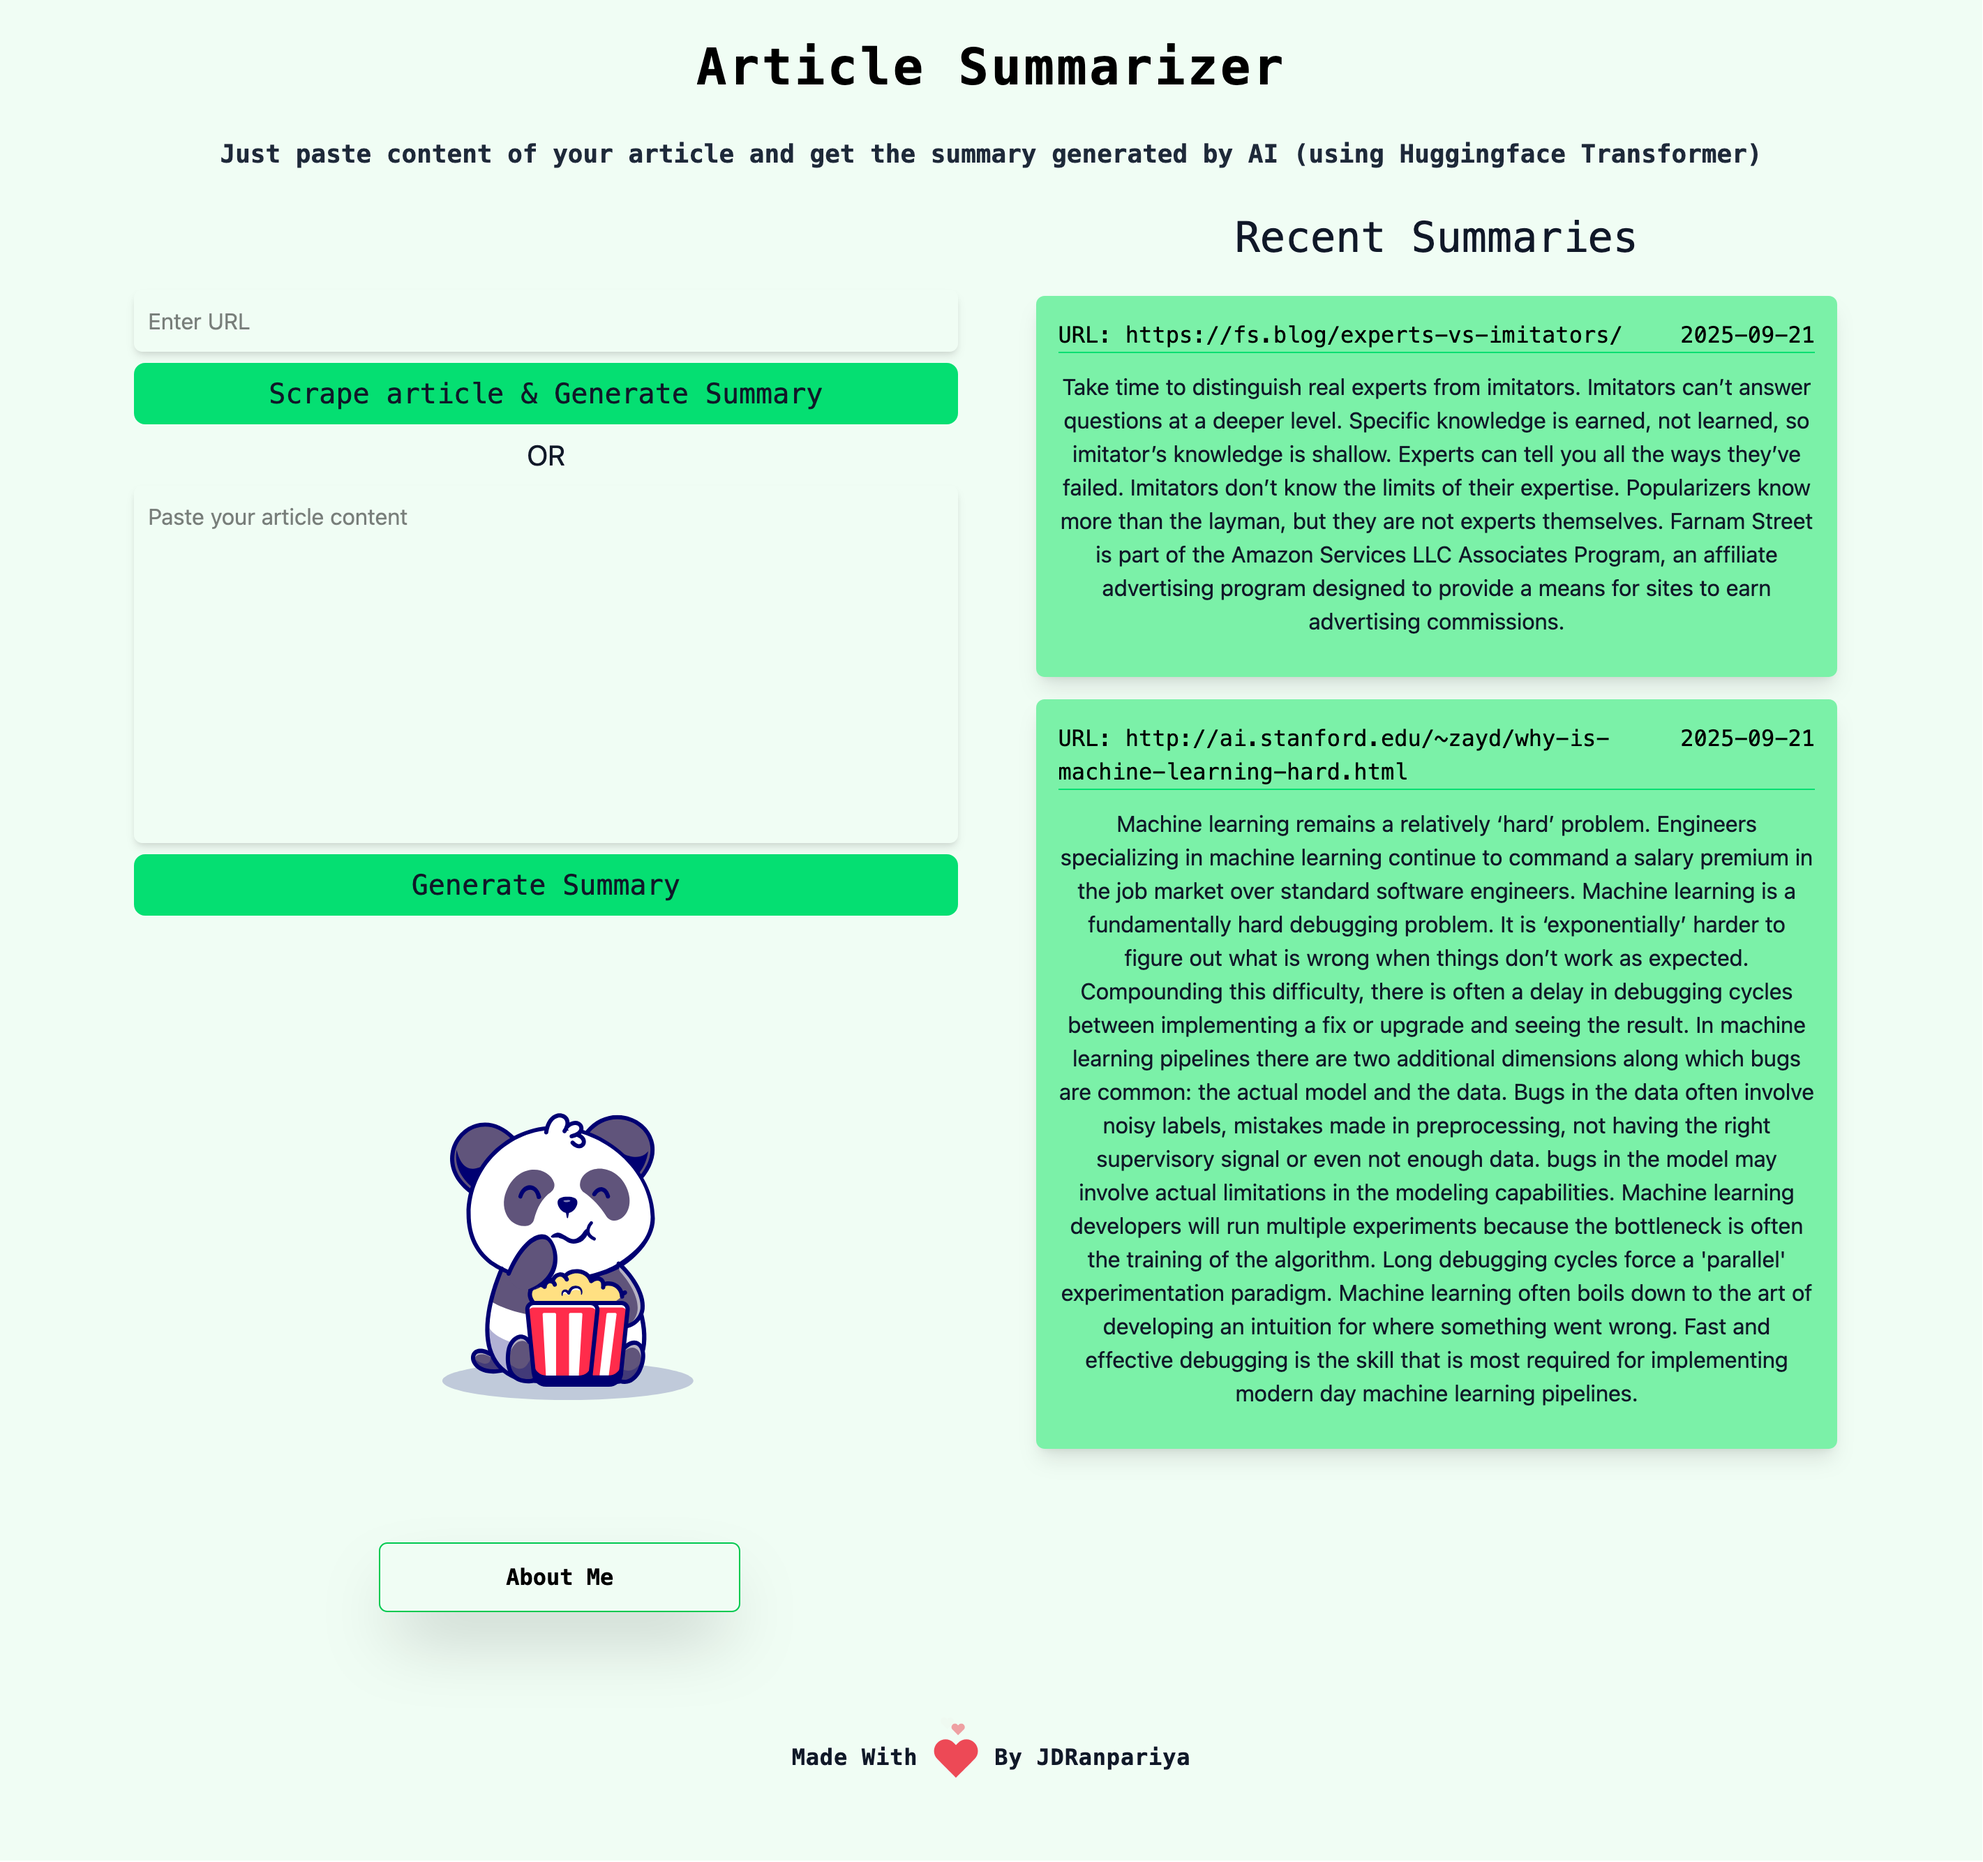
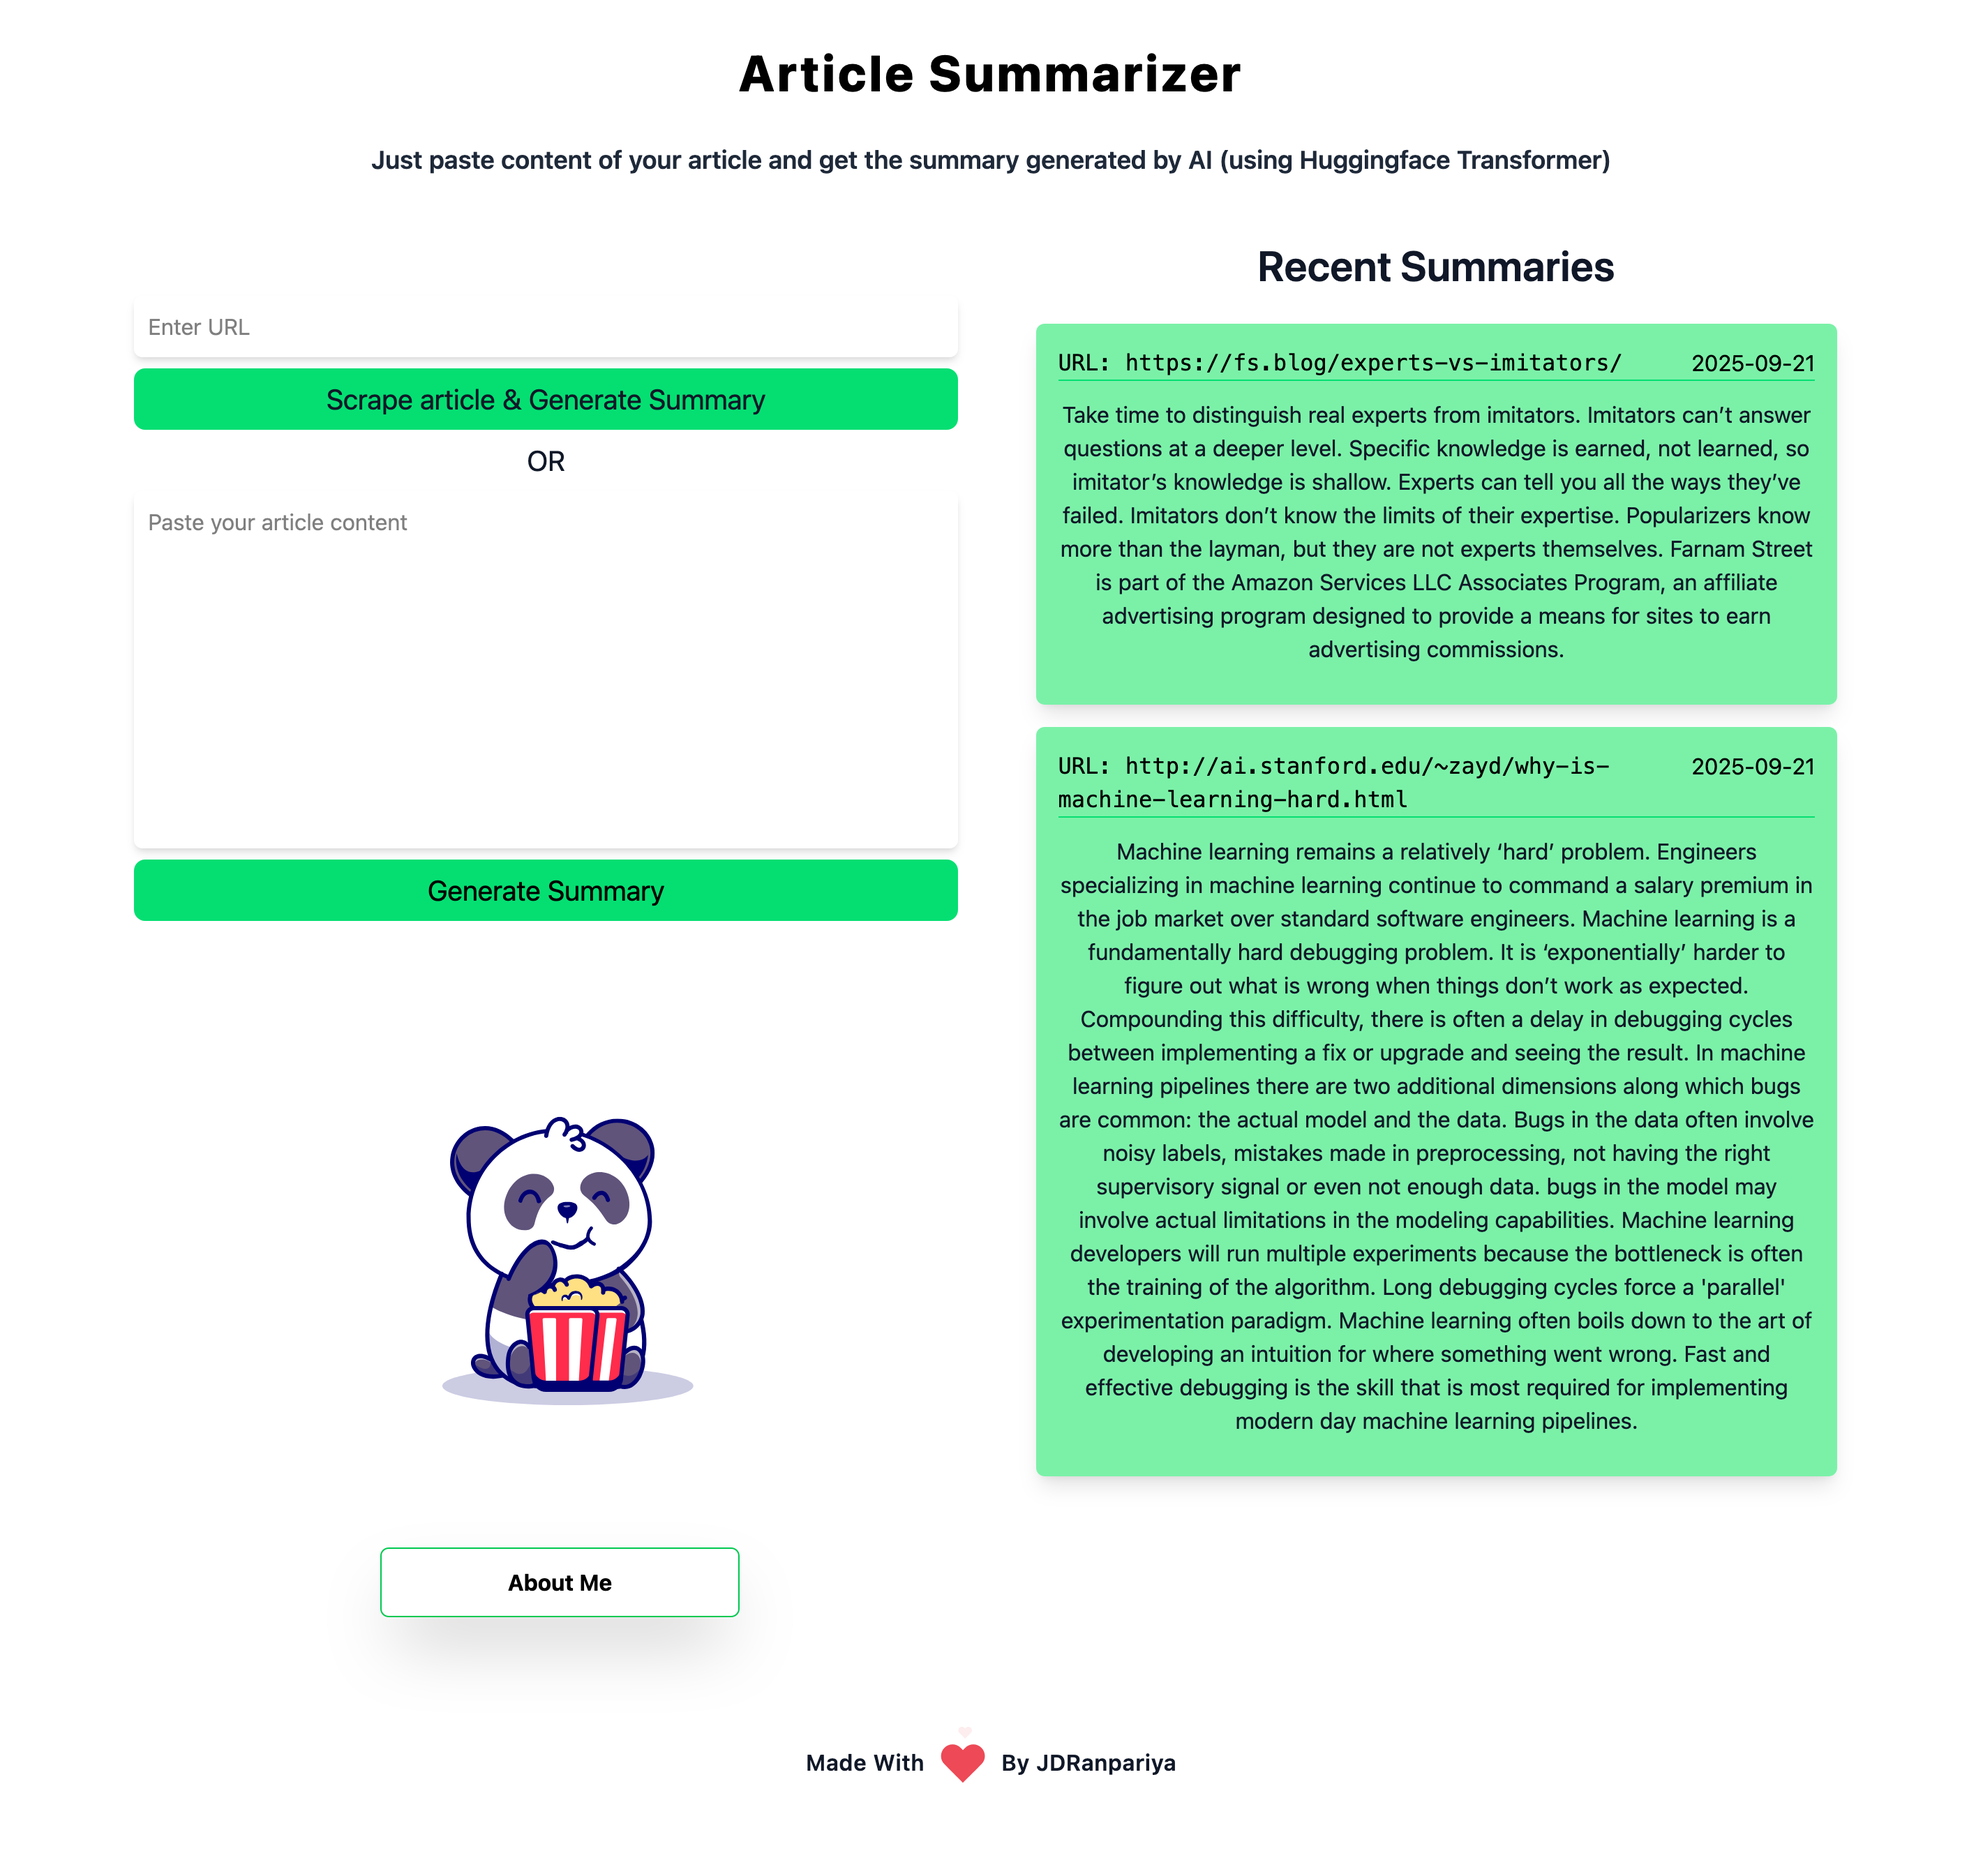
update fonts

diff --git a/frontend/pages/index.js b/frontend/pages/index.js
@@ -58,18 +58,19 @@ export default function Home() {
   // console.log(data)
 
   return (
-    <div className="bg-green-50 pt-7 block">
-      <Head className="bg-green-50">
+    <div className="bg-green-50pt-7 block">
+      <Head >
         <title>Article Summarizer</title>
         <link rel="icon" href="/favicon.ico" />
       </Head>
 
       <main>
-        <h1 className="font-extrabold m-7 mt-0 text-4xl tracking-wider text-center text-black font-mono">
+        <h1 className="font-extrabold
+      m-7 mt-8 text-4xl tracking-wider text-center text-black font-sarif ">
           Article Summarizer
         </h1>
 
-        <p className="text-center text-lg px-3 m-2 text-gray-800 font-mono font-semibold">
+        <p className="text-center text-lg px-3 m-2 text-gray-800 font-sarif font-semibold">
           Just paste content of your article and get the summary generated by AI
           (using Huggingface Transformer)
         </p>
@@ -91,7 +92,8 @@ export default function Home() {
                 />
 
                 <button
-                  className="focus:outline-none mt-2 text-gray-900 bg-green-400 w-full py-2 my-2 hover:bg-green-500 font-mono rounded-lg text-xl text-center"
+                  className="focus:outline-none mt-2 text-gray-900 bg-green-400
+      w-full py-2 my-2 hover:bg-green-500 font-sans rounded-lg text-xl text-center"
                   type="submit"
                 >
                   Scrape article & Generate Summary
@@ -106,12 +108,15 @@ export default function Home() {
                 }}
               >
                 <textarea
-                  className="focus:outline-none shadow-md border-transparent focus focus:border-transparent focus:ring-2 focus:ring-green-500 resize-none w-full border-2  mt-2 rounded-md min-h-full h-64 md:h-64 scale-y-100 p-2 text-mono text-base text-black "
+                  className="focus:outline-none shadow-md border-transparent
+      focus focus:border-transparent focus:ring-2 focus:ring-green-500 resize-none w-full border-2  mt-2 rounded-md min-h-full h-64 md:h-64 scale-y-100 p-2 text-mono text-base text-black "
                   onChange={(Event) => setContent(Event.target.value)}
                   placeholder="Paste your article content"
                 />
                 <button
-                  className="focus:outline-none mt-2 text-gray-900 bg-green-400 w-full py-2 my-2 hover:bg-green-500 font-mono rounded-lg text-xl text-center"
+                  className="focus:outline-none
+      mt-2 text-grey-900 bg-green-400 w-full py-2 my-2
+      hover:bg-green-500 font-sans rounded-lg text-xl text-center"
                   type="submit"
                 >
                   Generate Summary
@@ -119,15 +124,15 @@ export default function Home() {
               </form>
             </div>
 
-            {mutationError && <p>Error :( Please try again</p>}
-            {mutationscrapeError && <p>Error :( Please try again</p>}
+            {mutationError && console.log(mutationError) && <p>Error :( Please try again</p>}
+            {mutationscrapeError && console.log(mutationError) && <p>Error :( Please try again</p>}
             <div className="flex-grow"></div>
             <div className="hidden  md:block md:justify-center md:align-bottom">
               <Panda height={425} width={500} />
               <div className="grid grid-flow-col mt-4 ">
                 <div className="flex-grow"></div>
                 <a href="https://github.com/jdranpariya" target="_blank">
-                  <div className="border ml-5 w-auto border-green-500 p-3 text-center rounded-md hover:bg-green-300 shadow-2xl font-mono font-bold">
+                  <div className="border ml-5 w-auto border-green-500 p-3 text-center rounded-md hover:bg-green-300 shadow-2xl font-sarif font-bold">
                     About Me{" "}
                   </div>
                 </a>
@@ -137,7 +142,7 @@ export default function Home() {
           </div>
 
           <div className="">
-            <h3 className="text-center text-3xl mb-4 mt-4 md:mt-0 text-gray-900 font-mono">
+            <h3 className="text-center font-semibold text-3xl mb-4 pt-4 md:mt-0 text-gray-900 font-sarif">
               Recent Summaries
             </h3>
             <div className="grid grid-rows md:gap-x-4 ">
@@ -151,12 +156,12 @@ export default function Home() {
                       URL: {article.url}
                     </div>
                     <div className="flex-grow"></div>
-                    <div className="text-right font-mono">
+                    <div className="text-right font-sans">
                       {article.createdAt.split("T")[0]}
                     </div>
                     {/* {console.log((article.createdAt).split("T"))} */}
                   </div>
-                  <div className="text-center mt-3 mb-3 text-gray-900">
+                  <div className="text-center font-sans mt-3 mb-3 text-gray-900">
                     {article.summary}
                   </div>
                 </div>
@@ -169,7 +174,9 @@ export default function Home() {
             <div className="grid grid-cols-1 flex-col gap-x-3 mt-4">
               <a href="https://github.com/jdranpariya" target="_blank">
                 
-                <div className="border w-auto border-green-500 p-3 text-center rounded-md hover:bg-green-300 hover:border-transparent shadow-2xl font-mono font-bold">
+                <div className="border 
+      w-auto border-green-500 p-3 text-center rounded-md
+      hover:bg-green-300 hover:border-transparent shadow-2xl font-sarif font-bold">
                   About Me
                 </div>
                 

diff --git a/frontend/lotties/heart.js b/frontend/lotties/heart.js
@@ -17,13 +17,13 @@ export default function Heart() {
     return (
     <div className='flex flex-wrap justify-center'>
         <div className='flex-grow gap-x-2'></div>
-        <h2 className='mt-16  text-gray-900 font-mono font-semibold tracking-wide'>Made With</h2>
+        <h2 className='mt-16  text-gray-900 font-sarif font-semibold tracking-wide'>Made With</h2>
       <Lottie 
 	    options={defaultOptions}
         height={150}
         width={55}
       />
-      <h2 className='mt-16 text-gray-900 font-mono font-semibold tracking-wide'>By JDRanpariya</h2>
+      <h2 className='mt-16 text-gray-900 font-sarif font-semibold tracking-wide'>By JDRanpariya</h2>
       <div className='flex-grow'>
       
       </div>
